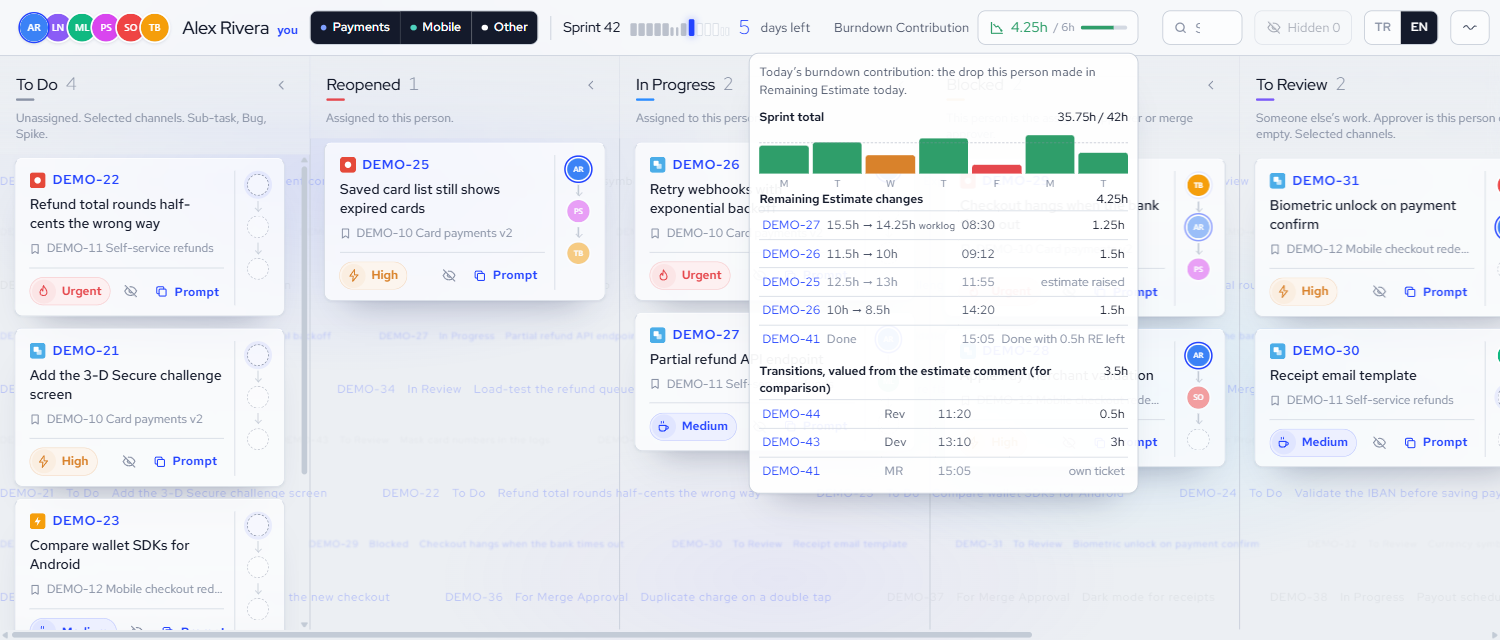
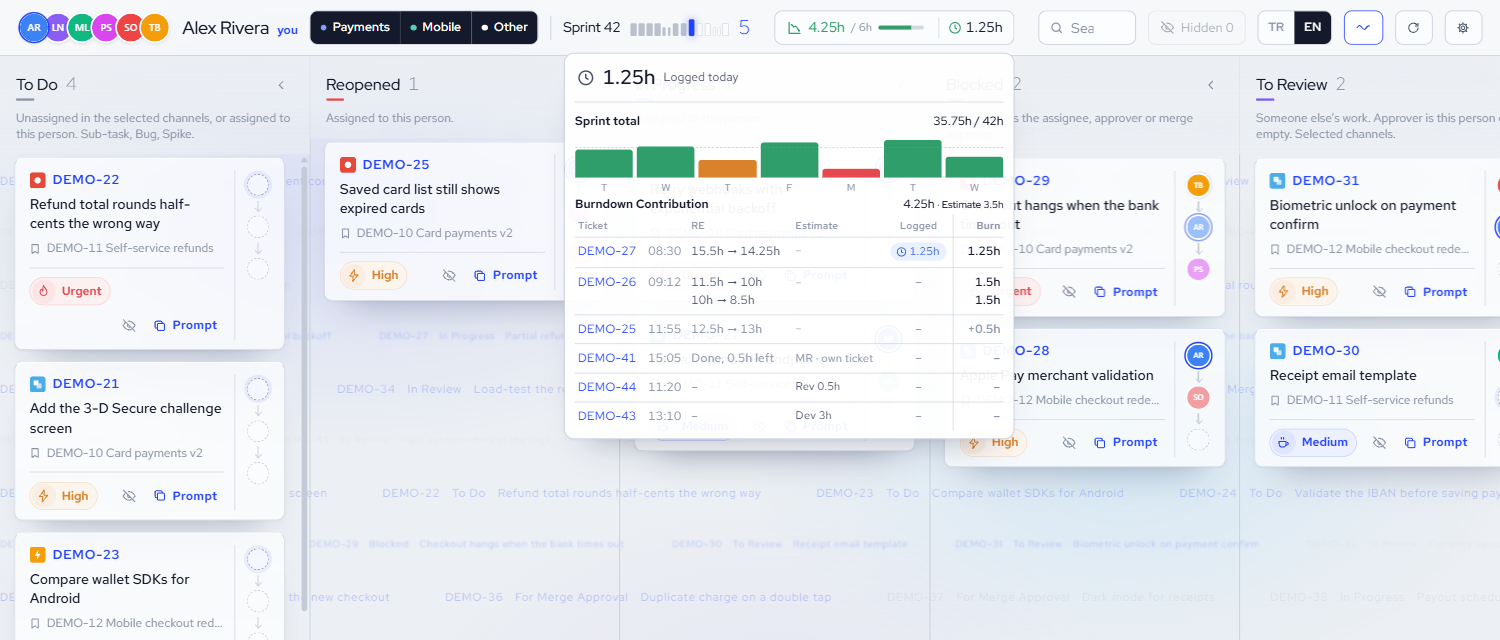
Show logged time in the burndown popover with one row per ticket
Move the logged-today figure from its own header item into the burndown
button and the top of its popover. Merge the Remaining Estimate changes
and the estimate-comment transitions into one table with a row per
ticket, and add the time logged today as its own column. The demo's
worklogs now carry an author and a duration so the popover fills in.

diff --git a/board.html b/board.html
@@ -109,8 +109,6 @@ svg{flex:none;display:block}
 .burn.low{--lv:var(--p1)}
 .burn.mid{--lv:var(--p2)}
 .burn.ok{--lv:var(--p4)}
-.burn.logged{--lv:var(--p4)}
-.burn.logged small{color:var(--lv)}
 /* fitTop() adds c1..c7 in turn while the header does not fit; the order is the order space is given up.
    If it still does not fit, "wrap" moves the rest to a second row. */
 .top.c1 .burnl{display:none}.top.c1 .burnw{margin-left:12px}
@@ -129,7 +127,7 @@ svg{flex:none;display:block}
 .burn small{color:var(--ink-3);font-size:11.5px}
 .burn .bar{width:46px;height:4px;border-radius:2px;background:var(--hair);overflow:hidden}
 .burn .bar i{display:block;height:100%;width:var(--w);background:var(--lv)}
-.bpop{position:absolute;top:42px;right:0;z-index:20;width:390px;max-height:380px;overflow:auto;background:rgba(255,255,255,.95);backdrop-filter:blur(16px);
+.bpop{position:absolute;top:42px;right:0;z-index:20;width:450px;max-height:480px;overflow:auto;overflow-x:hidden;background:rgba(255,255,255,.95);backdrop-filter:blur(16px);
   border:.5px solid var(--hair-2);border-radius:10px;box-shadow:var(--float);padding:8px 10px;font-size:12.5px;color:var(--ink-2)}
 .bpop[hidden]{display:none}
 .bpop p{margin:2px 0 6px;line-height:1.4}
@@ -143,6 +141,22 @@ svg{flex:none;display:block}
 .spark b{position:absolute;left:0;right:0;border-top:1px dashed var(--ink-3);opacity:.5;pointer-events:none}
 .bpop table{width:100%;border-collapse:collapse}
 .bpop td{padding:5px 3px;border-top:.5px solid var(--hair);white-space:nowrap}
+.burn .lgb{display:inline-flex;align-items:center;gap:4px;margin-left:8px;padding-left:9px;border-left:.5px solid var(--hair);color:var(--ink-2)}
+.burn .lgb svg{width:14px;height:14px}
+.burn .lgb b{color:var(--ink)}
+.bpop .lgd{display:flex;align-items:center;gap:8px;padding:2px 2px 10px;margin-bottom:4px;border-bottom:.5px solid var(--hair);color:var(--ink-2)}
+.bpop .lgd b{font-size:20px;font-weight:600;color:var(--ink);font-family:var(--f-data)}
+.bpop .lgd span{font-size:12px}
+.bpop th{padding:4px 3px 3px;font-size:10.5px;font-weight:500;color:var(--ink-3);text-align:left}
+.bpop th.hr{text-align:right}
+.bpop .lgc{text-align:center}
+.bpop .lgp{display:inline-flex;align-items:center;gap:3px;padding:1px 7px 1px 5px;border-radius:999px;background:#E9F0FF;color:#2F5BD3;font-family:var(--f-data);font-size:11.5px}
+.bpop .lgp svg{width:11px;height:11px}
+.bpop .bc2{padding-left:10px!important;border-left:.5px solid var(--hair);font-weight:600}
+.bpop table.mt td{vertical-align:top;line-height:1.45}
+.bpop table.mt td:nth-child(4){white-space:normal;font-size:11.5px;min-width:84px}
+.bpop table.mt td:nth-child(2){color:var(--ink-3);font-family:var(--f-data)}
+.bpop .z{color:var(--ink-3)}
 .bpop td.hr{text-align:right;font-family:var(--f-data);color:var(--ink)}
 .bpop tr.z td{color:var(--ink-3)}
 .bpop a{color:var(--cobalt);text-decoration:none;font-family:var(--f-data)}
@@ -396,7 +410,7 @@ html[data-motion="off"] *{transition:none!important;animation:none!important}
   <div class="seg chan" role="group" id="chan"></div>
   <span class="sep"></span>
   <div class="spr" id="spr"></div>
-  <div class="burnw"><span class="burnl" id="burnl"></span><button type="button" class="tb burn" id="burn" aria-haspopup="true" aria-expanded="false"></button><div class="bpop" id="bpop" hidden></div><div class="tb burn logged" id="logged"></div></div>
+  <div class="burnw"><span class="burnl" id="burnl"></span><button type="button" class="tb burn" id="burn" aria-haspopup="true" aria-expanded="false"></button><div class="bpop" id="bpop" hidden></div></div>
   <span class="grow"></span>
   <label class="search">
     <svg width="14" height="14" viewBox="0 0 24 24" fill="none" stroke="currentColor" stroke-width="2.2" stroke-linecap="round"><circle cx="11" cy="11" r="7"/><path d="m20 20-3.5-3.5"/></svg>
@@ -431,8 +445,8 @@ var T={
     empty:'Bu kolonda iş yok.',fold:'Kolonu daralt',unfold:'Kolonu aç',you:'sen',findPerson:'Kişi ara',
     err:'Jira okunamadı',more:'Diğer kişiler',rA:'Assignee',none:'boş',
     motion:'Hareket',motionOn:'Hareketi kapat',motionOff:'Hareketi aç',
-    logged:'Bugün loglanan',loggedNone:'Bugün worklog yok.',loggedErr:'Worklog okunamadı',burn:'Burndown Katkısı',burnTip:'Bugünkü burndown katkısı: kişinin bugün Remaining Estimate\'te yaptığı düşüş.',burnRe:'Remaining Estimate değişiklikleri',burnTr:'Geçişler, tahmin yorumuna göre (karşılaştırma için)',
-    burnNone:'Bugün kayıt yok.',burnErr:'Burndown okunamadı',burnUp:'tahmin artışı',burnSprint:'Sprint toplamı',burnSprintTip:function(n,x){return n+' iş günü × '+x+'h'},burnLoading:'Sprint hesaplanıyor…',burnLeft:function(x){return 'Done, '+x+' RE kaldı'},
+    logged:'Bugün loglanan',loggedNone:'Bugün worklog yok.',loggedErr:'Worklog okunamadı',burn:'Burndown Katkısı',burnTip:'Bugünkü burndown katkısı: kişinin bugün Remaining Estimate\'te yaptığı düşüş.',burnRe:'Remaining Estimate değişiklikleri',colTicket:'Ticket',colEst:'Tahmin',colBurn:'Katkı',colLog:'Worklog',burnTr:'Geçişler, tahmin yorumuna göre (karşılaştırma için)',
+    burnNone:'Bugün kayıt yok.',burnErr:'Burndown okunamadı',burnUp:'tahmin artışı',burnSprint:'Sprint toplamı',burnSprintTip:function(n,x){return n+' iş günü × '+x+'h'},burnLoading:'Sprint hesaplanıyor…',burnLeft:function(x){return 'Done, '+x+' kaldı'},
     reasons:{notFirst:'ilk geçiş değil',own:'kendi işi',notAssignee:'assignee değil',noEstimate:'tahmin yok'},
     other:'Diğer',chan:'Kanallar',chanTip:function(c){return c+' kolonları seçili kanalların işlerini gösterir.'},chanLast:'En az bir kanal açık kalmalı.',
     and:' ve ',or:' ya da ',
@@ -449,8 +463,8 @@ var T={
     empty:'Nothing in this column.',fold:'Collapse column',unfold:'Expand column',you:'you',findPerson:'Find a person',
     err:'Could not read Jira',more:'More people',rA:'Assignee',none:'empty',
     motion:'Motion',motionOn:'Turn motion off',motionOff:'Turn motion on',
-    logged:'Logged today',loggedNone:'No time logged today.',loggedErr:'Could not read worklogs',burn:'Burndown Contribution',burnTip:'Today’s burndown contribution: the drop this person made in Remaining Estimate today.',burnRe:'Remaining Estimate changes',burnTr:'Transitions, valued from the estimate comment (for comparison)',
-    burnNone:'Nothing today.',burnErr:'Could not read burndown',burnUp:'estimate raised',burnSprint:'Sprint total',burnSprintTip:function(n,x){return n+' working days × '+x+'h'},burnLoading:'Working out the sprint…',burnLeft:function(x){return 'Done with '+x+' RE left'},
+    logged:'Logged today',loggedNone:'No time logged today.',loggedErr:'Could not read worklogs',burn:'Burndown Contribution',burnTip:'Today’s burndown contribution: the drop this person made in Remaining Estimate today.',burnRe:'Remaining Estimate changes',colTicket:'Ticket',colEst:'Estimate',colBurn:'Burn',colLog:'Logged',burnTr:'Transitions, valued from the estimate comment (for comparison)',
+    burnNone:'Nothing today.',burnErr:'Could not read burndown',burnUp:'estimate raised',burnSprint:'Sprint total',burnSprintTip:function(n,x){return n+' working days × '+x+'h'},burnLoading:'Working out the sprint…',burnLeft:function(x){return 'Done, '+x+' left'},
     reasons:{notFirst:'not the first pass',own:'own ticket',notAssignee:'not the assignee',noEstimate:'no estimate'},
     other:'Other',chan:'Channels',chanTip:function(c){return c+' show work from the selected channels.'},chanLast:'Keep at least one channel on.',
     and:' and ',or:' or ',
@@ -754,13 +768,15 @@ function loadBurn(force){return getBurn('/api/burn',force,function(j){burn=j})}
 function loadSprintBurn(force){return getBurn('/api/burn?scope=sprint',force,function(j){sprintBurn=j})}
 var logged=null,loggedFor=null;
 function loadLogged(force){if(!sel)return Promise.resolve();loggedFor=sel;return getBurn('/api/logged?person='+encodeURIComponent(sel),force,function(j){logged=j})}
-function renderLogged(){
-  var t=T[lang],e=$('logged');if(!e)return;
-  if(!logged||loggedFor!==sel||(!logged.error&&logged.person!==sel)){e.innerHTML='<b>…</b><small>'+h(t.logged)+'</small>';e.title=t.logged;return}
-  if(logged.error){e.innerHTML='<b>–</b><small>'+h(t.logged)+'</small>';e.title=t.loggedErr+': '+logged.error;return}
-  var tip=logged.items.length?logged.items.map(function(x){return x.at+'  '+x.key+'  '+hrs(x.seconds/3600)+'  '+x.summary}).join('\n'):t.loggedNone;
-  e.innerHTML='<b>'+h(hrs(logged.seconds/3600))+'</b><small>'+h(t.logged)+'</small>';
-  e.title=t.logged+': '+hrs(logged.seconds/3600)+'\n'+tip;e.setAttribute('aria-label',t.logged+': '+hrs(logged.seconds/3600));
+var CLOCK='<svg width="18" height="18" viewBox="0 0 24 24" fill="none" stroke="currentColor" stroke-width="2" stroke-linecap="round" aria-hidden="true"><circle cx="12" cy="12" r="9"/><path d="M12 7v5l3 2"/></svg>';
+function loggedVal(){return !logged||loggedFor!==sel||(!logged.error&&logged.person!==sel)?'…':logged.error?'–':hrs(logged.seconds/3600)}
+function loggedTop(){
+  var t=T[lang],v='…',tip=t.logged;
+  if(logged&&loggedFor===sel&&(logged.error||logged.person===sel)){
+    if(logged.error){v='–';tip=t.loggedErr+': '+logged.error}
+    else{v=hrs(logged.seconds/3600);tip=logged.items.length?logged.items.map(function(x){return x.at+'  '+x.key+'  '+hrs(x.seconds/3600)+'  '+x.summary}).join('\n'):t.loggedNone}
+  }
+  return '<div class="lgd" title="'+h(tip)+'">'+CLOCK+'<b>'+h(v)+'</b><span>'+h(t.logged)+'</span></div>';
 }
 function level(x){return x<BURNCFG.low?'low':x<BURNCFG.mid?'mid':'ok'}
 function sprintHtml(){
@@ -779,13 +795,9 @@ function sprintHtml(){
     days.map(function(x){return '<i class="'+(x.v?level(x.v):'')+'" style="height:'+Math.max(2,Math.round(x.v/max*40))+'px" title="'+h(x.d.toLocaleDateString(loc,{weekday:'short',day:'numeric',month:'short'})+': '+hrs(x.v))+'"><span>'+h(x.d.toLocaleDateString(loc,{weekday:'narrow'}))+'</span></i>'}).join('')+
     (target?'<b style="bottom:'+Math.round(target/max*40)+'px" aria-hidden="true"></b>':'')+'</div>';
 }
-function burnRow(e,cls,mid,val){
-  return '<tr'+(cls?' class="'+cls+'"':'')+' title="'+h(e.summary)+'"><td><a href="'+h(data.base)+'/browse/'+h(e.key)+'" target="_blank" rel="noopener">'+h(e.key)+'</a></td><td>'+mid+'</td><td>'+h(e.at)+'</td><td class="hr">'+val+'</td></tr>';
-}
 function renderBurn(){
   var t=T[lang],b=$('burn'),pop=$('bpop');
   if(data&&loggedFor!==sel)loadLogged(false);
-  renderLogged();
   $('burnl').textContent=t.burn;b.classList.remove('low','mid','ok');
   if(!data||!burn){b.innerHTML=ICON.burn+'<b>…</b>';return}
   if(burn.error){b.innerHTML=ICON.burn+'<b>–</b>';b.title=t.burnErr+': '+burn.error;pop.innerHTML='<p>'+h(b.title)+'</p>';return}
@@ -794,14 +806,27 @@ function renderBurn(){
       total=re.reduce(function(n,e){return n+Math.max(0,e.before-e.after)},0),
       trTotal=ev.reduce(function(n,e){return n+e.hours},0);
   b.classList.add(level(total));b.title=t.burn+': '+hrs(total)+(target?' / '+hrs(target):'');b.setAttribute('aria-label',b.title);
-  b.innerHTML=ICON.burn+'<b>'+h(hrs(total))+'</b>'+(target?'<small>/ '+h(hrs(target))+'</small><span class="bar" aria-hidden="true"><i style="--w:'+Math.min(100,Math.round(total/target*100))+'%"></i></span>':'');
-  var reRows=re.map(function(e){var d=e.before-e.after;
-        return burnRow(e,d>0?'':'z',h(hrs(e.before))+' → '+h(hrs(e.after))+(e.worklog?' <small>worklog</small>':''),d>0?h(hrs(d)):h(t.burnUp))})
-      .concat(left.map(function(e){return burnRow(e,'z','Done',h(t.burnLeft(hrs(e.left))))}));
-  pop.innerHTML='<p>'+h(t.burnTip)+'</p>'+sprintHtml()+
-    '<h4>'+h(t.burnRe)+'<span>'+h(hrs(total))+'</span></h4>'+(reRows.length?'<table>'+reRows.join('')+'</table>':'<p>'+h(t.burnNone)+'</p>')+
-    (!(BURNCFG.stages||[]).length?'':'<h4>'+h(t.burnTr)+'<span>'+h(hrs(trTotal))+'</span></h4>'+(ev.length?'<table>'+ev.map(function(e){
-      return burnRow(e,e.hours?'':'z',h(STAGE_NAME[e.stage]||e.stage),e.hours?h(hrs(e.hours)):h(t.reasons[e.reason]||e.reason))}).join('')+'</table>':'<p>'+h(t.burnNone)+'</p>'));
+  b.innerHTML=ICON.burn+'<b>'+h(hrs(total))+'</b>'+(target?'<small>/ '+h(hrs(target))+'</small><span class="bar" aria-hidden="true"><i style="--w:'+Math.min(100,Math.round(total/target*100))+'%"></i></span>':'')+
+    '<span class="lgb" title="'+h(t.logged)+'">'+CLOCK+'<b>'+h(loggedVal())+'</b></span>';
+  b.title+=' · '+t.logged+': '+loggedVal();b.setAttribute('aria-label',b.title);
+  var rows={},order=[];
+  function row(e){if(!rows[e.key]){rows[e.key]={key:e.key,summary:e.summary,at:e.at,re:[],tr:[],lg:0};order.push(e.key)}return rows[e.key]}
+  re.forEach(function(e){var d=e.before-e.after;row(e).re.push({t:h(hrs(e.before))+' → '+h(hrs(e.after)),v:d>0?h(hrs(d)):'<span title="'+h(t.burnUp)+'">+'+h(hrs(-d))+'</span>',z:d<=0})});
+  left.forEach(function(e){row(e).re.push({t:h(t.burnLeft(hrs(e.left))),v:'–',z:true})});
+  var lgOk=logged&&loggedFor===sel&&!logged.error&&logged.person===sel;
+  if(lgOk)logged.items.forEach(function(x){row(x).lg+=x.seconds});
+  order.sort(function(a,c){return rows[a].at<rows[c].at?-1:rows[a].at>rows[c].at?1:0});
+  var stages=(BURNCFG.stages||[]).length;
+  if(stages)ev.forEach(function(e){row(e).tr.push(e.hours?h(STAGE_NAME[e.stage]||e.stage)+' '+h(hrs(e.hours)):'<span class="z">'+h(STAGE_NAME[e.stage]||e.stage)+' · '+h(t.reasons[e.reason]||e.reason)+'</span>')});
+  var body=order.map(function(k){var r=rows[k];
+    return '<tr title="'+h(r.summary)+'"><td><a href="'+h(data.base)+'/browse/'+h(k)+'" target="_blank" rel="noopener">'+h(k)+'</a></td><td>'+h(r.at)+'</td>'+
+      '<td>'+(r.re.map(function(x){return '<span'+(x.z?' class="z"':'')+'>'+x.t+'</span>'}).join('<br>')||'<span class="z">–</span>')+'</td>'+
+      (stages?'<td>'+(r.tr.join('<br>')||'<span class="z">–</span>')+'</td>':'')+
+      '<td class="lgc">'+(r.lg?'<span class="lgp">'+CLOCK+h(hrs(r.lg/3600))+'</span>':'<span class="z">–</span>')+'</td>'+
+      '<td class="hr bc2">'+(r.re.map(function(x){return '<span'+(x.z?' class="z"':'')+'>'+x.v+'</span>'}).join('<br>')||'<span class="z">–</span>')+'</td></tr>'}).join('');
+  pop.innerHTML=loggedTop()+sprintHtml()+
+    '<h4 title="'+h(t.burnTip)+'">'+h(t.burn)+'<span>'+h(hrs(total))+(stages?' <small>· '+h(t.colEst)+' '+h(hrs(trTotal))+'</small>':'')+'</span></h4>'+
+    (order.length?'<table class="mt"><tr><th>'+h(t.colTicket)+'</th><th></th><th>RE</th>'+(stages?'<th>'+h(t.colEst)+'</th>':'')+'<th class="lgc" title="'+h(t.logged)+'">'+h(t.colLog)+'</th><th class="hr bc2">'+h(t.colBurn)+'</th></tr>'+body+'</table>':'<p>'+h(t.burnNone)+'</p>');
 }
 function renderAll(fromLoad){renderChrome();if(!data)return;renderPeople();renderHeader();renderChan();if(BURNCFG.enabled)renderBurn();renderBoard(fromLoad);buildTraffic()}
 

diff --git a/demo/demo.py b/demo/demo.py
@@ -114,7 +114,8 @@ class Data:
         items = [{"field": "timeestimate", "fieldtype": "jira", "from": str(old), "to": str(new)}]
         if worklog_started:
             wid = str(9000 + len(self.worklogs))
-            self.worklogs.setdefault(key, []).append({"id": wid, "started": self.stamp(worklog_started)})
+            self.worklogs.setdefault(key, []).append({"id": wid, "started": self.stamp(worklog_started), "author": self.user(who),
+                                                     "timeSpentSeconds": max(old - new, 900)})
             items.insert(0, {"field": "WorklogId", "fieldtype": "jira", "from": None, "to": wid})
         self.remaining[key] = new
         self.change(key, when, who, *items)
@@ -198,6 +199,8 @@ class Data:
         if m:
             keys = m.group(1).split(",")
             picked = [t for t in TICKETS if t[0] in keys]
+        elif "worklogAuthor" in jql:
+            picked = [t for t in TICKETS if t[0] in self.worklogs]
         elif "statusCategory != Done" in jql:
             picked = [t for t in TICKETS if t[3] != "Done" and t[1] != "Epic"]
         else:

diff --git a/README.md b/README.md
@@ -82,7 +82,7 @@ A team board answers "where is everything?". During the day the question is narr
 | ⊗ **Blocker** | A ticket that holds up open tickets through a Jira "Blocks" link shows a circled X with the count. Hover or click it for the waiting tickets, each one a link to Jira. Blockers sort first within their priority. |
 | 🏷 **Channel chips** | Optional team streams, defined by epics, label and component glob patterns, and a summary regex. Hidden when none are configured. |
 | 📋 **Prompt per card** | Per-column templates with `{key}`, `{summary}`, `{url}`, `{status}` and more, in one language or per language. Neutral defaults; bring your own workflow. |
-| 🔥 **Burndown contribution** | Today's Remaining Estimate drop against a daily target, a sprint-to-date chart, and every change behind both. |
+| 🔥 **Burndown contribution** | Today's Remaining Estimate drop against a daily target and the time logged today, a sprint-to-date chart, and one row per ticket behind both. |
 | 🗂 **Board hygiene** | Search (`/`), hide a card until its status changes, fold columns, empty columns fold themselves. Choices are remembered per browser. |
 | 🎬 **Refresh show** | A worker rummages through a Jira crate while the data loads, then throws each card into its column. Follows the OS "reduce motion" setting; the Motion button overrides it. |
 | 🧙 **Setup wizard** | Opens on the first start and from **Settings**: pick the board's active sprint, build the team by searching Jira, define channels from the sprint's epics, labels, components and title keywords with live match counts, rewrite the column prompts (for your own commands or skills), and set the refresh rate. Saved to `settings.json` and applied without a restart. |
@@ -99,7 +99,7 @@ A team board answers "where is everything?". During the day the question is narr
 
 [![Burndown contribution popover](./docs/images/burndown.png)](./docs/images/burndown.png)
 
-<sub><b>Burndown contribution.</b> Today's total against the 6h target, the sprint-to-date chart, each Remaining Estimate change (a worklog counts at its start time), and the optional estimate-comment comparison.</sub>
+<sub><b>Burndown contribution.</b> Time logged today at the top, the sprint-to-date chart, then one row per ticket: its Remaining Estimate change (a worklog counts at its start time), the optional estimate-comment value, the time logged today and the burn.</sub>
 
 <br><br>
 
